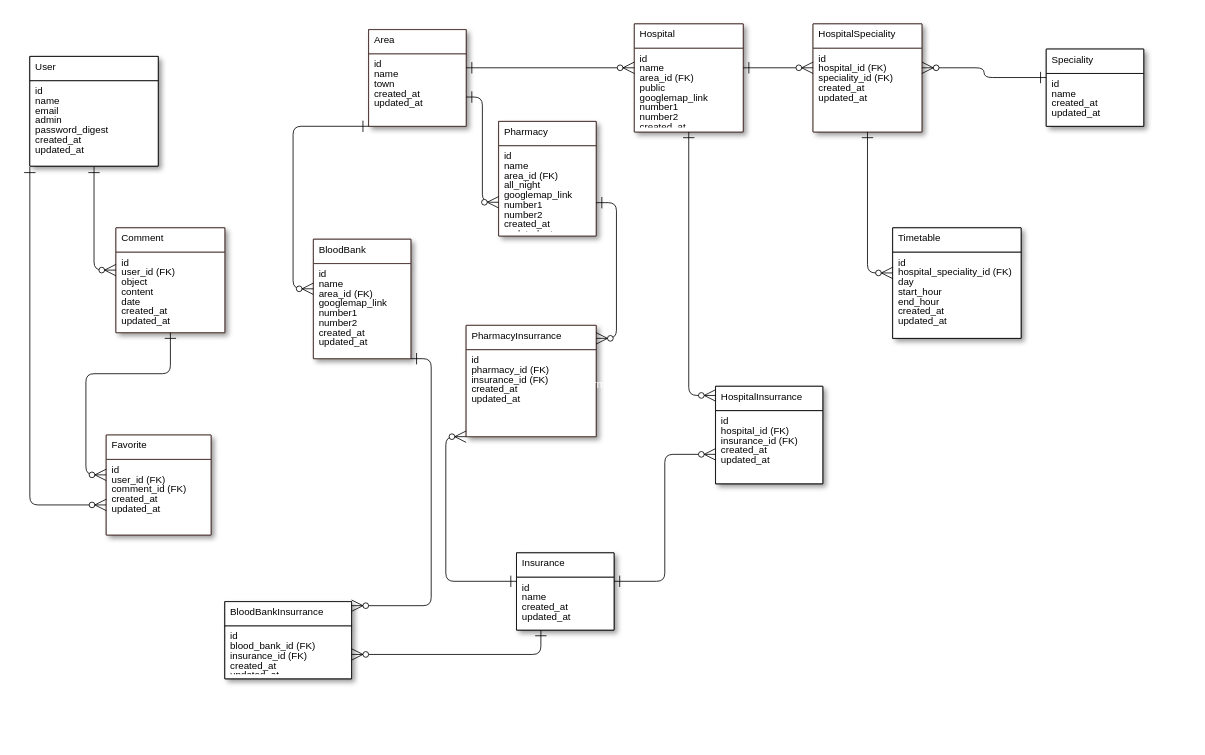
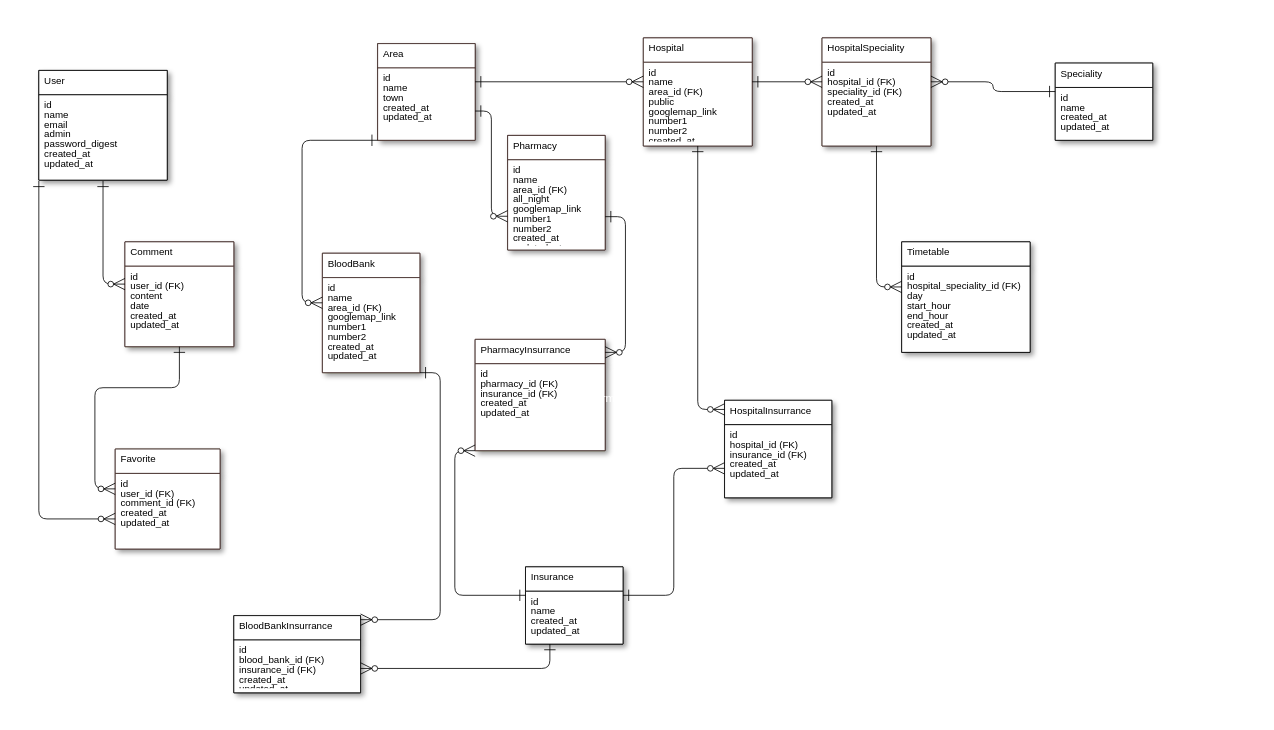
erd modifier

diff --git a/app/assets/stylesheets/blood_banks.scss b/app/assets/stylesheets/blood_banks.scss
@@ -1,0 +1,3 @@
+// Place all the styles related to the blood_banks controller here.
+// They will automatically be included in application.css.
+// You can use Sass (SCSS) here: http://sass-lang.com/

diff --git a/app/controllers/blood_banks_controller.rb b/app/controllers/blood_banks_controller.rb
@@ -1,0 +1,87 @@
+class BloodBanksController < InheritedResources::Base
+
+  def index
+    @blood_banks = BloodBank.all
+    if params[:blood_bank].present?
+      name = params[:blood_bank][:name]
+      area_id = params[:blood_bank][:area_id]
+      town_id = params[:blood_bank][:town_id]
+      if town_id !=""
+        town = Area.find(town_id.to_i).town
+      end
+
+      if name !='' && area_id !='' && town_id != ''
+        search_for_name_town_area_(name,area_id, town)
+      elsif  name !='' && area_id !='' && town_id == ''
+        search_for_name_area(name,area_id)
+      elsif  name !='' && area_id =='' && town_id != ''
+        search_name_town(name, town)
+      elsif  name =='' && area_id !='' && town_id != ''
+        search_area_town(area_id,town)
+      elsif name !='' && area_id =='' && town_id == ''
+        @blood_banks = BloodBank.search_name(name)
+       elsif name =='' && area_id !='' && town_id == ''
+         @blood_banks = BloodBank.search_area(area_id)
+      elsif name =='' && area_id =='' && town_id != ''
+        @blood_banks = search_for_town(town)
+     end
+   end
+  end
+
+  private
+  def search_for_name_town_area_(name,area_id, town)
+    result = BloodBank.search_name(name).search_area(area_id)
+    interm = []
+    # rechercher selon town
+    result.each do |blood_bank|
+       if pharmacy.area.town == town
+         interm.push(pharmacy)
+       end
+    end
+    @blood_banks = interm
+  end
+
+  def search_for_name_area(name,area_id)
+    @blood_banks = BloodBank.search_name(name).search_area(area_id)
+  end
+
+  def search_name_town(name, town)
+    result = BloodBank.search_name(name)
+    interm = []
+    # rechercher selon town
+    result.each do |pharmacy|
+       if pharmacy.area.town == town
+         interm.push(pharmacy)
+       end
+    end
+    @blood_banks = interm
+  end
+
+  def search_area_town(area_id,town)
+    result = BloodBank.search_area(area_id)
+    interm = []
+    # rechercher selon town
+    result.each do |pharmacy|
+       if pharmacy.area.town == town
+         interm.push(pharmacy)
+       end
+    end
+    @blood_banks = interm
+  end
+
+  def search_for_town(town)
+    result = BloodBank.all
+    interm = []
+    # rechercher selon town
+    result.each do |pharmacy|
+       if pharmacy.area.town == town
+         interm.push(pharmacy)
+       end
+    end
+    @blood_banks = interm
+  end
+    def blood_bank_params
+      params.require(:blood_bank).permit(:name, :area_id, :googlemap_link, :number1, :number2, :town_id)
+    end
+
+end

diff --git a/test/controllers/blood_banks_controller_test.rb b/test/controllers/blood_banks_controller_test.rb
@@ -1,0 +1,48 @@
+require 'test_helper'
+
+class BloodBanksControllerTest < ActionDispatch::IntegrationTest
+  setup do
+    @blood_bank = blood_banks(:one)
+  end
+
+  test "should get index" do
+    get blood_banks_url
+    assert_response :success
+  end
+
+  test "should get new" do
+    get new_blood_bank_url
+    assert_response :success
+  end
+
+  test "should create blood_bank" do
+    assert_difference('BloodBank.count') do
+      post blood_banks_url, params: { blood_bank: { area_id: @blood_bank.area_id, googlemap_link: @blood_bank.googlemap_link, name: @blood_bank.name, number1: @blood_bank.number1, number2: @blood_bank.number2 } }
+    end
+
+    assert_redirected_to blood_bank_url(BloodBank.last)
+  end
+
+  test "should show blood_bank" do
+    get blood_bank_url(@blood_bank)
+    assert_response :success
+  end
+
+  test "should get edit" do
+    get edit_blood_bank_url(@blood_bank)
+    assert_response :success
+  end
+
+  test "should update blood_bank" do
+    patch blood_bank_url(@blood_bank), params: { blood_bank: { area_id: @blood_bank.area_id, googlemap_link: @blood_bank.googlemap_link, name: @blood_bank.name, number1: @blood_bank.number1, number2: @blood_bank.number2 } }
+    assert_redirected_to blood_bank_url(@blood_bank)
+  end
+
+  test "should destroy blood_bank" do
+    assert_difference('BloodBank.count', -1) do
+      delete blood_bank_url(@blood_bank)
+    end
+
+    assert_redirected_to blood_banks_url
+  end
+end

diff --git a/test/system/blood_banks_test.rb b/test/system/blood_banks_test.rb
@@ -1,0 +1,51 @@
+require "application_system_test_case"
+
+class BloodBanksTest < ApplicationSystemTestCase
+  setup do
+    @blood_bank = blood_banks(:one)
+  end
+
+  test "visiting the index" do
+    visit blood_banks_url
+    assert_selector "h1", text: "Blood Banks"
+  end
+
+  test "creating a Blood bank" do
+    visit blood_banks_url
+    click_on "New Blood Bank"
+
+    fill_in "Area", with: @blood_bank.area_id
+    fill_in "Googlemap link", with: @blood_bank.googlemap_link
+    fill_in "Name", with: @blood_bank.name
+    fill_in "Number1", with: @blood_bank.number1
+    fill_in "Number2", with: @blood_bank.number2
+    click_on "Create Blood bank"
+
+    assert_text "Blood bank was successfully created"
+    click_on "Back"
+  end
+
+  test "updating a Blood bank" do
+    visit blood_banks_url
+    click_on "Edit", match: :first
+
+    fill_in "Area", with: @blood_bank.area_id
+    fill_in "Googlemap link", with: @blood_bank.googlemap_link
+    fill_in "Name", with: @blood_bank.name
+    fill_in "Number1", with: @blood_bank.number1
+    fill_in "Number2", with: @blood_bank.number2
+    click_on "Update Blood bank"
+
+    assert_text "Blood bank was successfully updated"
+    click_on "Back"
+  end
+
+  test "destroying a Blood bank" do
+    visit blood_banks_url
+    page.accept_confirm do
+      click_on "Destroy", match: :first
+    end
+
+    assert_text "Blood bank was successfully destroyed"
+  end
+end

diff --git a/db/schema.rb b/db/schema.rb
@@ -10,7 +10,7 @@
 #
 # It's strongly recommended that you check this file into your version control system.
 
-ActiveRecord::Schema.define(version: 2021_10_21_101958) do
+ActiveRecord::Schema.define(version: 2021_10_21_115540) do
 
   # These are extensions that must be enabled in order to support this database
   enable_extension "plpgsql"
@@ -34,6 +34,17 @@ ActiveRecord::Schema.define(version: 2021_10_21_101958) do
     t.string "town"
     t.datetime "created_at", null: false
     t.datetime "updated_at", null: false
+  end
+
+  create_table "blood_banks", force: :cascade do |t|
+    t.string "name"
+    t.bigint "area_id"
+    t.string "googlemap_link"
+    t.string "number1"
+    t.string "number2"
+    t.datetime "created_at", null: false
+    t.datetime "updated_at", null: false
+    t.index ["area_id"], name: "index_blood_banks_on_area_id"
   end
 
   create_table "hospital_specialities", force: :cascade do |t|
@@ -75,6 +86,7 @@ ActiveRecord::Schema.define(version: 2021_10_21_101958) do
     t.datetime "updated_at", null: false
   end
 
+  add_foreign_key "blood_banks", "areas"
   add_foreign_key "hospital_specialities", "hospitals"
   add_foreign_key "hospital_specialities", "specialities"
   add_foreign_key "hospitals", "areas"

diff --git a/app/admin/pharmacies.rb b/app/admin/pharmacies.rb
@@ -1,0 +1,18 @@
+ActiveAdmin.register Pharmacy do
+
+  # See permitted parameters documentation:
+  # https://github.com/activeadmin/activeadmin/blob/master/docs/2-resource-customization.md#setting-up-strong-parameters
+  #
+  # Uncomment all parameters which should be permitted for assignment
+  #
+  permit_params :name, :area_id, :all_nigth, :googlemap_link, :number1, :number2
+  #
+  # or
+  #
+  # permit_params do
+  #   permitted = [:name, :area_id, :all_nigth, :googlemap_link, :number1, :number2]
+  #   permitted << :other if params[:action] == 'create' && current_user.admin?
+  #   permitted
+  # end
+
+end

diff --git a/db/migrate/20211021115540_create_blood_banks.rb b/db/migrate/20211021115540_create_blood_banks.rb
@@ -1,0 +1,13 @@
+class CreateBloodBanks < ActiveRecord::Migration[5.2]
+  def change
+    create_table :blood_banks do |t|
+      t.string :name
+      t.references :area, foreign_key: true
+      t.string :googlemap_link
+      t.string :number1
+      t.string :number2
+
+      t.timestamps
+    end
+  end
+end

diff --git a/app/models/blood_bank.rb b/app/models/blood_bank.rb
@@ -1,0 +1,6 @@
+class BloodBank < ApplicationRecord
+  belongs_to :area
+
+  scope :search_name, ->(name){where('name like ?', name)}
+  scope :search_area, ->(area_id){where('area_id = ?', area_id)}
+end

diff --git a/config/routes.rb b/config/routes.rb
@@ -1,4 +1,5 @@
 Rails.application.routes.draw do
+  resources :blood_banks
   resources :pharmacies
   ActiveAdmin.routes(self)
   resources :hospitals

diff --git a/test/models/blood_bank_test.rb b/test/models/blood_bank_test.rb
@@ -1,0 +1,7 @@
+require 'test_helper'
+
+class BloodBankTest < ActiveSupport::TestCase
+  # test "the truth" do
+  #   assert true
+  # end
+end

diff --git a/app/models/area.rb b/app/models/area.rb
@@ -4,4 +4,5 @@ class Area < ApplicationRecord
 
   has_many :hospitals
   has_many :pharmacies
+  has_many :blood_banks
 end

diff --git a/app/helpers/blood_banks_helper.rb b/app/helpers/blood_banks_helper.rb
@@ -1,0 +1,2 @@
+module BloodBanksHelper
+end
